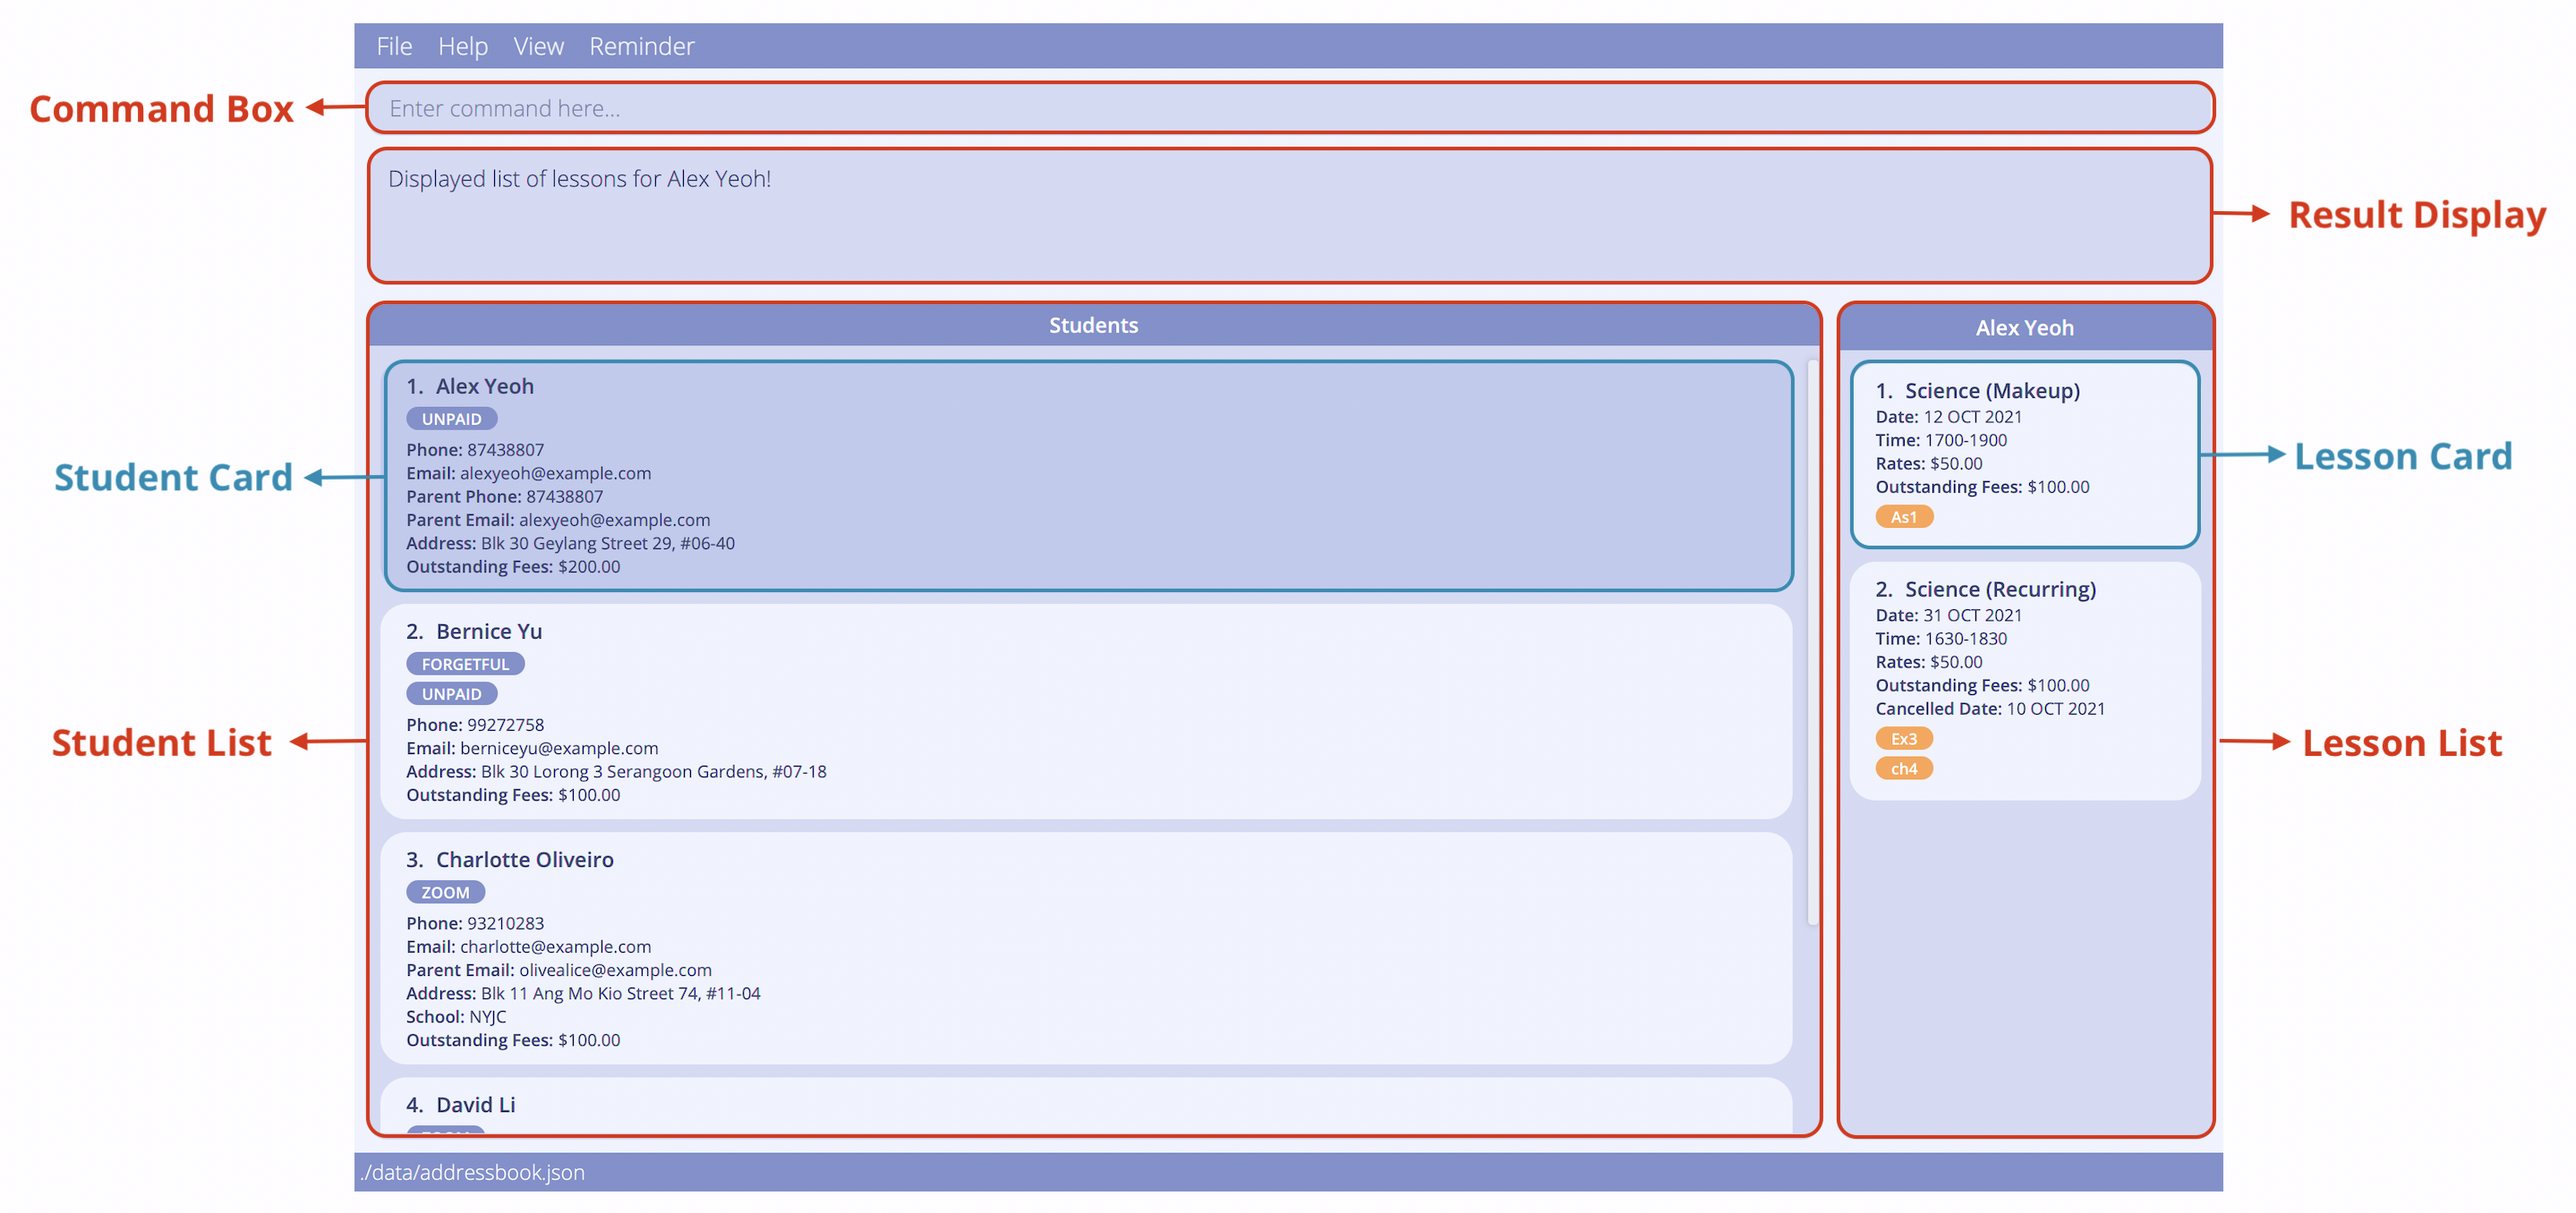
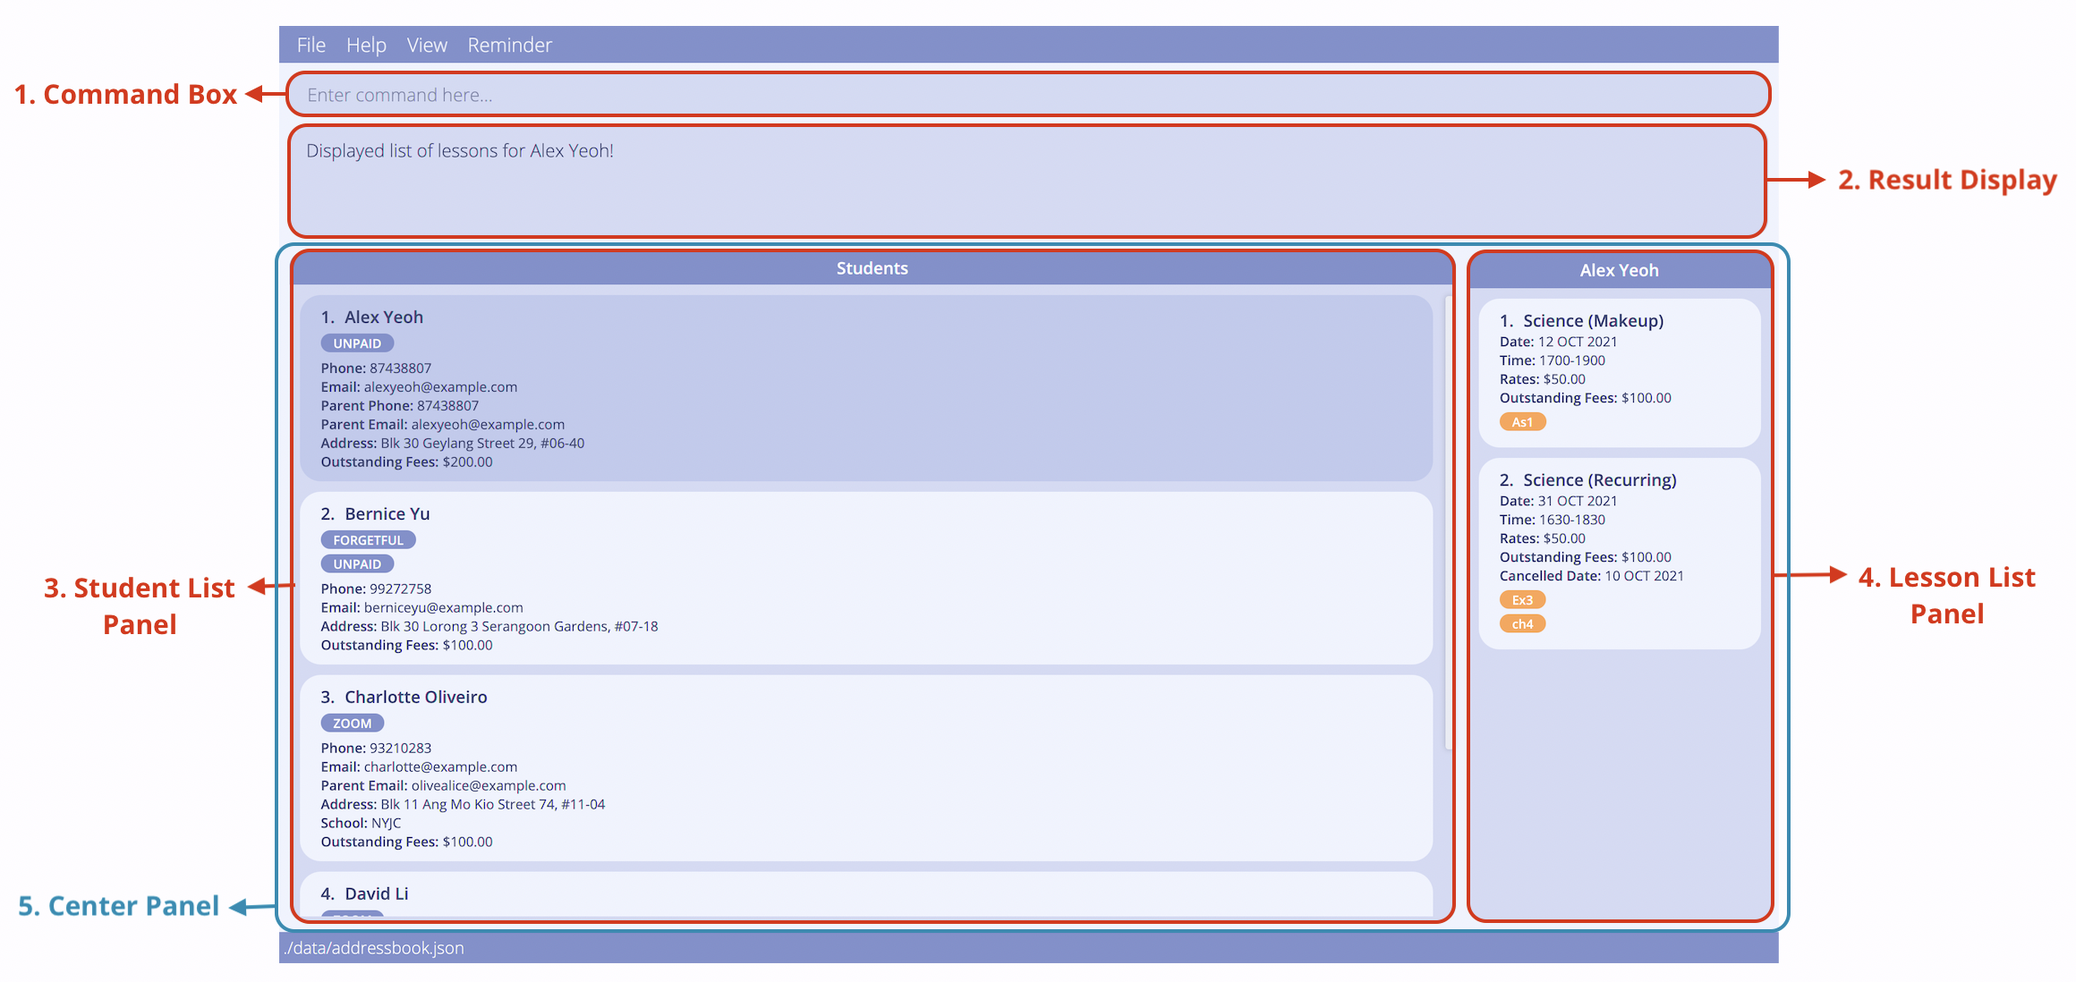
Update GUI layout explanation

Changed region(s): [[0.0, 0.0, 0.9931, 0.9909]]

diff --git a/docs/UserGuide.md b/docs/UserGuide.md
@@ -38,9 +38,6 @@ _text_ | Caption for images.
 :bulb: | Indication that the following text is a tip.
 :exclamation: | Indication that the following text is important.
 
-**Application Layout**
-![layout](images/annotation.png)
-<div class="caption">Basic layout of TAB's user interface.</div>
 
 --------------------------------------------------------------------------------------------------------------------
 
@@ -82,6 +79,25 @@ to help you with the installation. Follow the guide for your operating system fo
    * **`exit`** : Exits the app.
 
 6. Refer to the [Features](#features) section for details of each command.
+
+--------------------------------------------------------------------------------------------------------------------
+
+<div style="page-break-after: always;"></div>
+
+## Graphical User Interface (GUI)
+
+This section briefly explains the various section of TAB's GUI.
+
+![layout](images/annotation.png)
+<div class="caption">Basic layout of TAB's user interface.</div>
+
+No. | Section | Representation
+----|---------|---------
+1 | Command Box | The text field where you key in commands that are meant to be processed by TAB. TAB will execute the command after you pressed <kbd>Enter</kbd>.
+2 | Result Display | The area that shows the result of the execution of the command. If the command entered has been executed successfully, it will display relevant success messages, otherwise, it will show error messages indicating the cause of the error.
+3 | Student List Panel | The area that shows the list of students you have in TAB.
+4 | Lesson List Panel | The area that shows the name of the student you have selected together with a list of lessons that the student has.
+5 | Center Panel | The area that displays the lists of students and lessons, calendar or the list of tags depending on the command you have entered. See [Features](#features) for more details.
 
 --------------------------------------------------------------------------------------------------------------------
 
